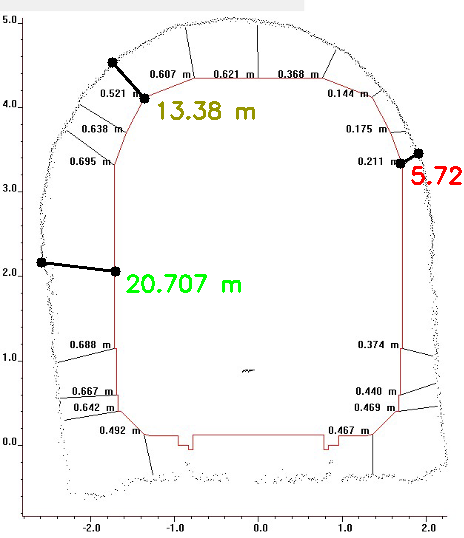
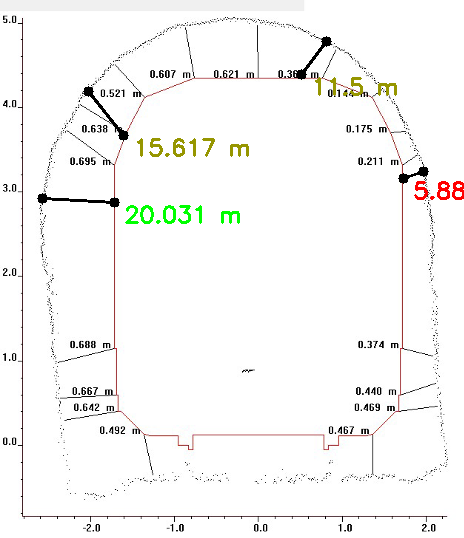
README instructions

diff --git a/README.md b/README.md
@@ -5,5 +5,14 @@
 python3 tunnel.py
 ```
 
+## Instructions
+1. A window will pop up displaying a sketch of a train (red) inside a tunnel (black).
+2. Click on any location inside the window. A dot or circle will appear this is point1.
+3. Click again at a different location to create point2. This will measure the distance between point1 and point2, representing the distance between the train and the tunnel.
+4. After clicking the second time, the distance between point1 and point2 will be measured, and it will appear on the image in the window once you click a third time.
+5. Continue clicking if you want to measure the distance between other points on the image.
+6. The results, with the marked points and measured distances, will be saved in an image file named "resultado.png" in the program's directory.
+
+**_NOTE:_**  The program will continue measuring distances and saving the image with every third click. To exit the program, simply hit the ESC key.
 
 
